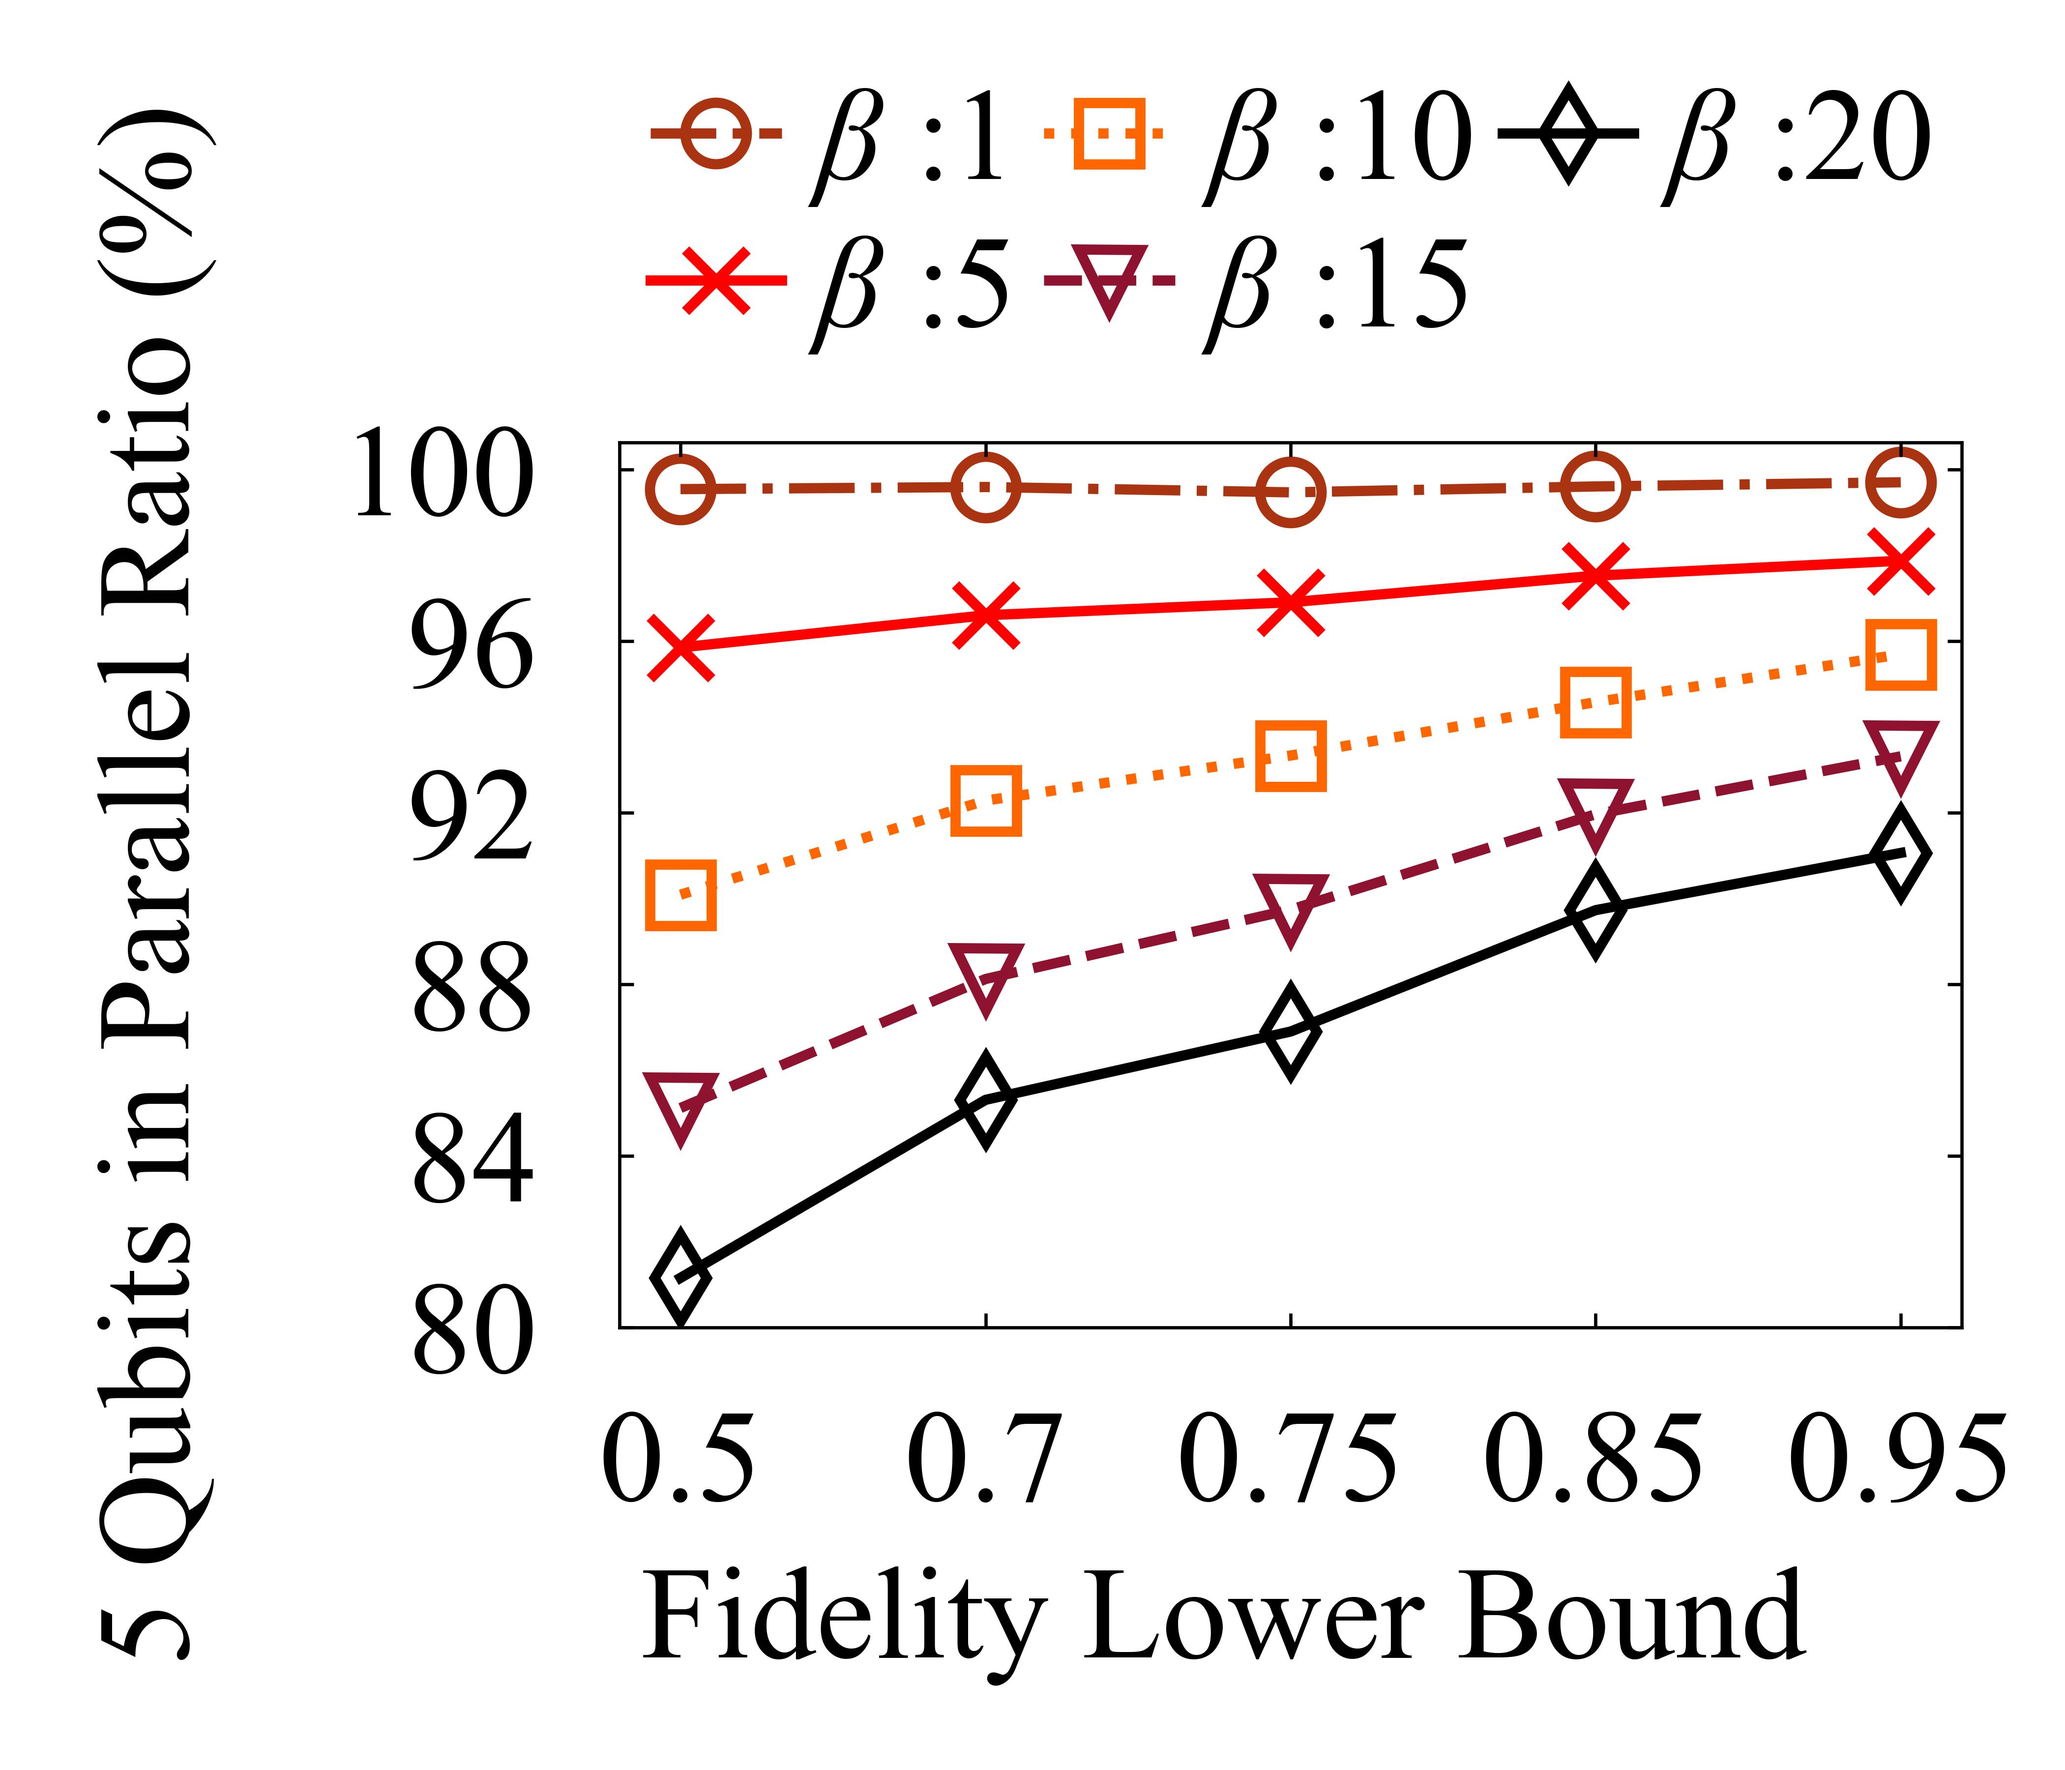
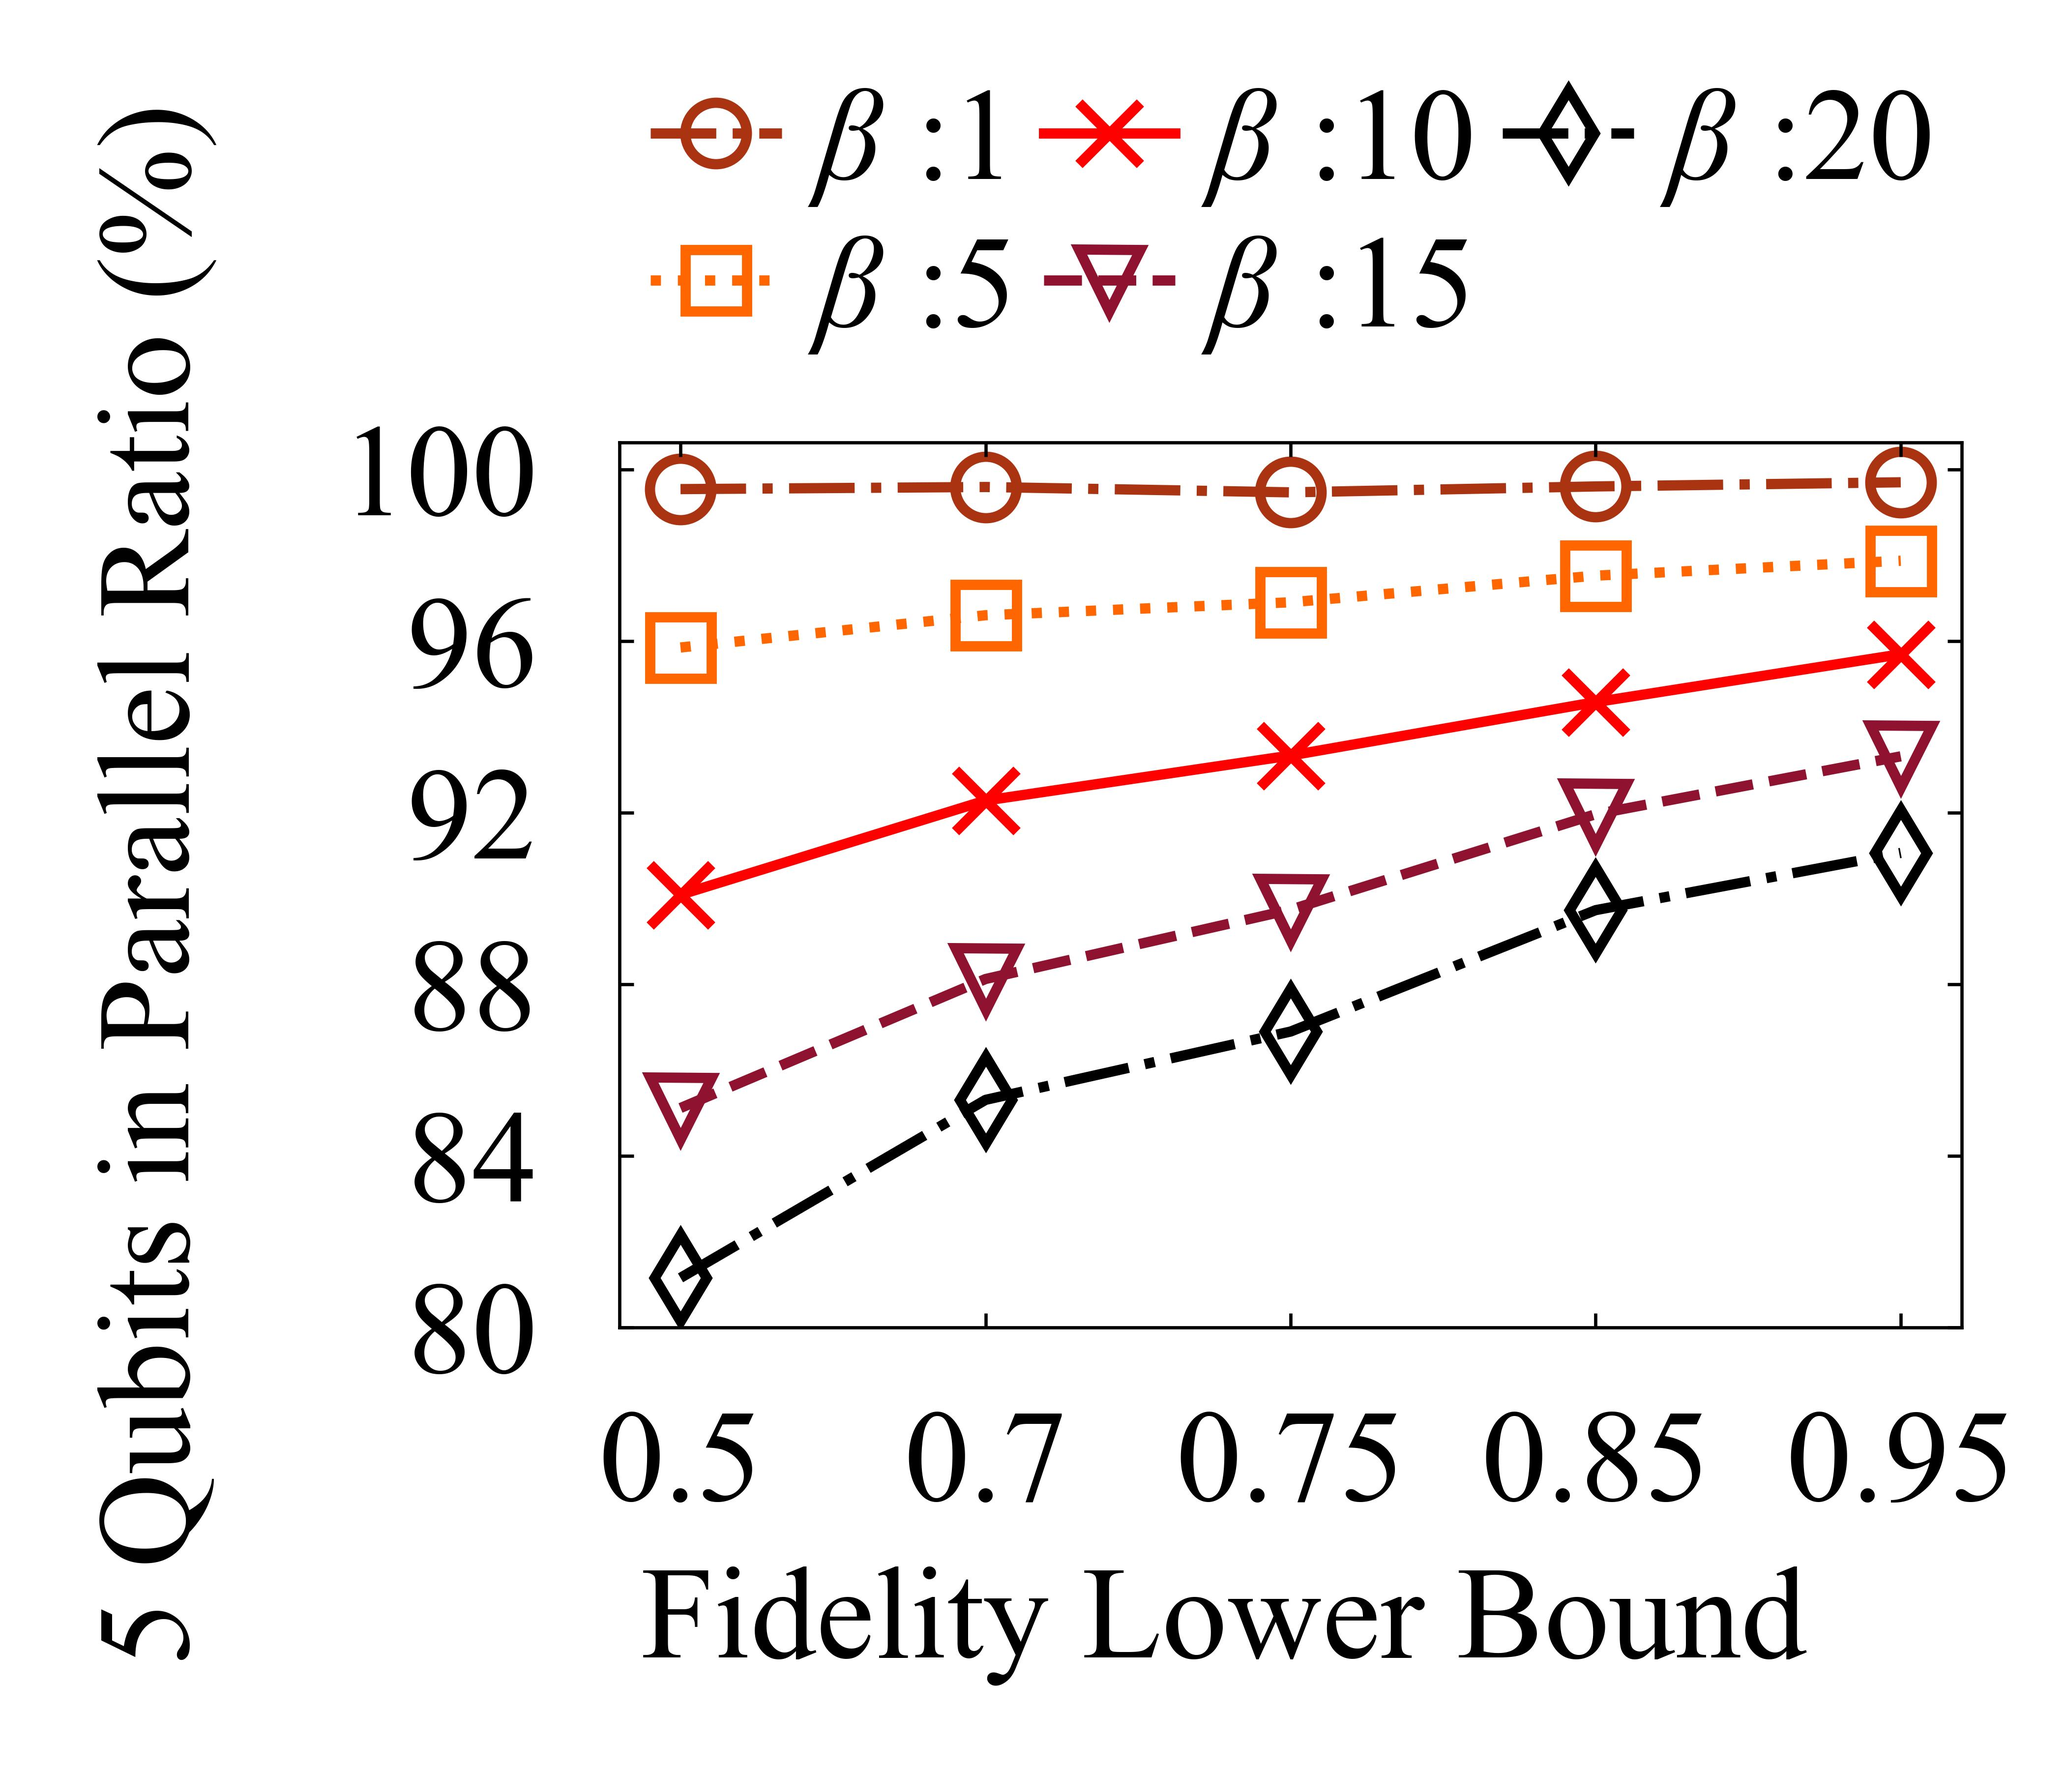
change color of encode_path_ratio

diff --git a/use/encode_path_ratio/ChartGenerator.py b/use/encode_path_ratio/ChartGenerator.py
@@ -38,8 +38,8 @@ class ChartGenerator:
         # ]
         color = [
             "#AA3311",   
-            "#FF0000",
             "#FF6600",
+            "#FF0000",
             "#901231",
             "#000000"
         ]
@@ -148,8 +148,8 @@ class ChartGenerator:
             Ystart = 0
             Yinterval = 0.2
 
-        marker = ['o', 'x', 's', 'v', 'd']
-        line_style = ["-.", "-", ":", "--", '-']
+        marker = ['o', 's', 'x', 'v', 'd']
+        line_style = ["-.", ":", "-", "--", "-."]
         # color.reverse()
         # marker.reverse()
         for i in range(numOfAlgo):
